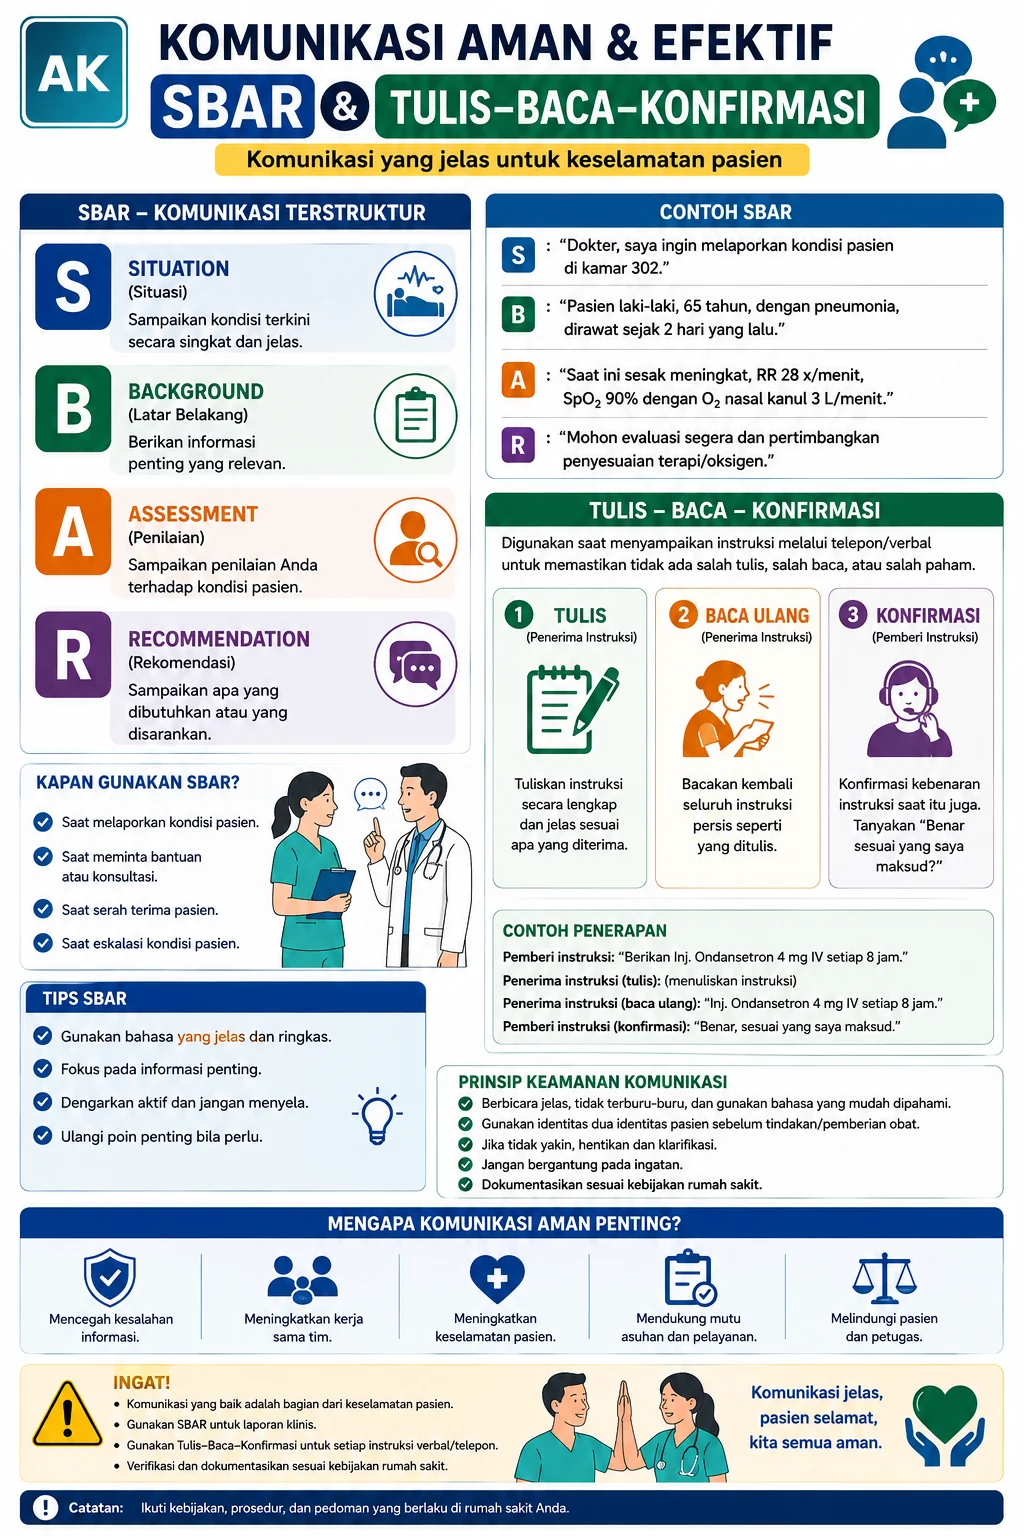
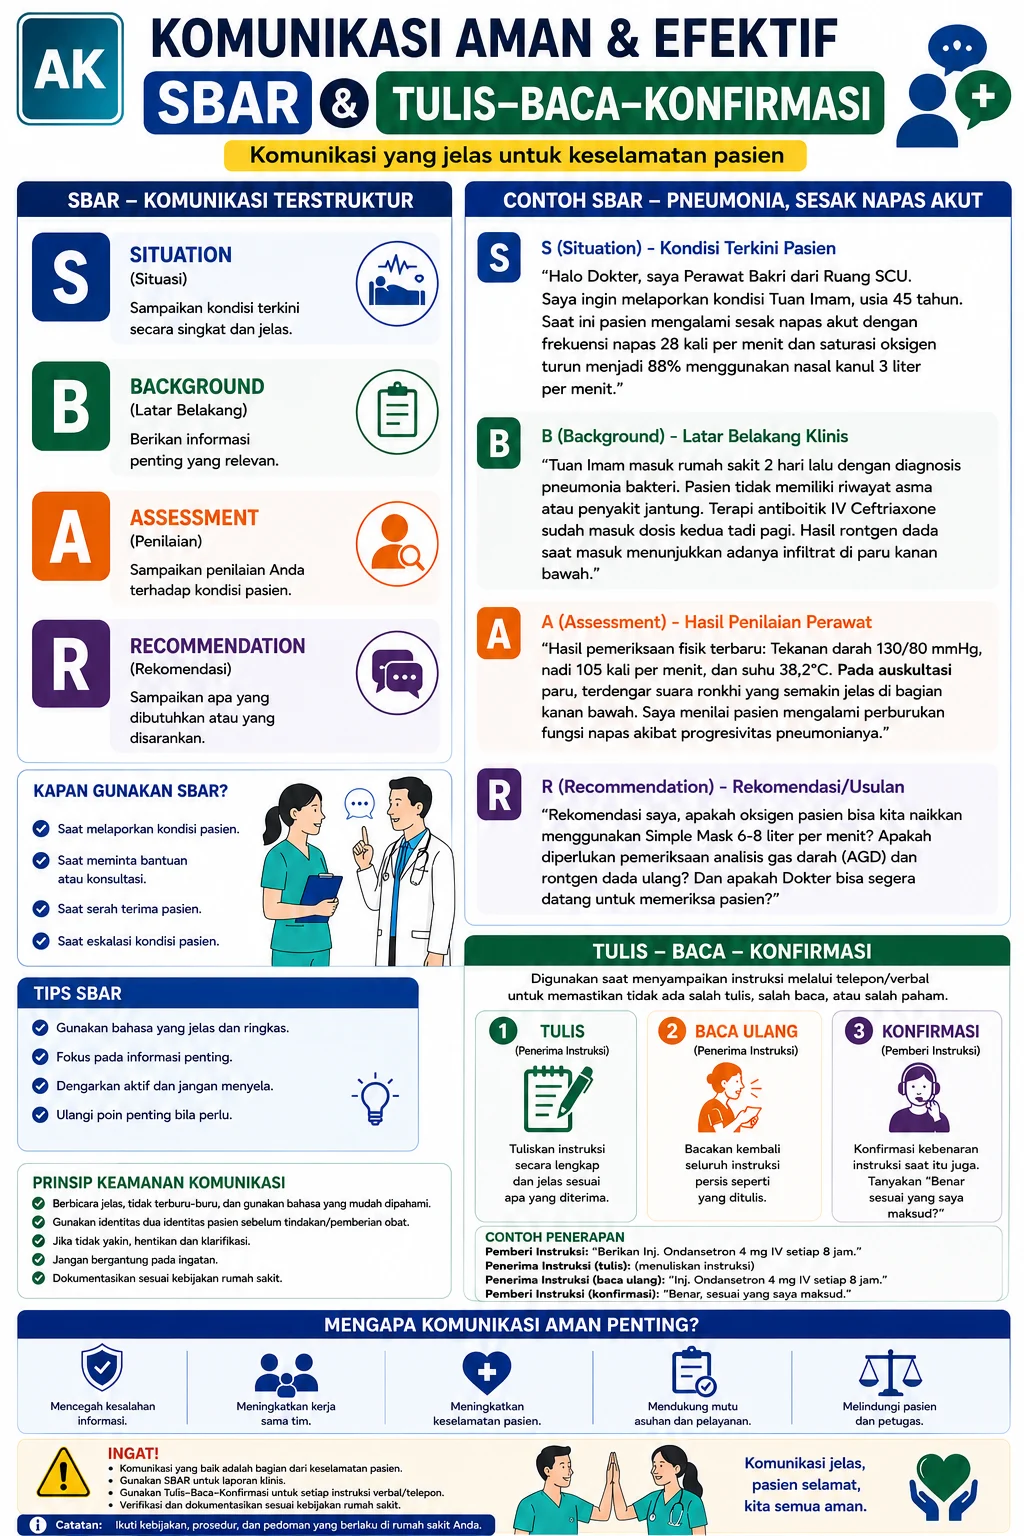
Add files via upload
update poster

diff --git a/index.html b/index.html
@@ -10,7 +10,7 @@
   <link rel="icon" href="assets/icons/icon-192.png">
   <link rel="apple-touch-icon" href="assets/icons/icon-192.png">
   <title>Portal Keperawatan</title>
-  <link rel="stylesheet" href="assets/css/styles-v6-0-0.css?v=6.0.0">
+  <link rel="stylesheet" href="assets/css/styles-v6-0-0.css?v=6.0.1">
 </head>
 <body>
 <div class="ak-shell">
@@ -55,6 +55,6 @@
 <div class="ak-search-overlay" id="searchOverlay"><div class="ak-search-modal"><div class="ak-search-box"><svg viewBox="0 0 24 24" fill="none" stroke="currentColor" stroke-width="2"><circle cx="11" cy="11" r="7"/><path d="m20 20-4-4"/></svg><input class="ak-search-input" id="searchInput" placeholder="Cari SKP, PP, PAP, BHD, EWS, PMKP…"><button class="ak-search-close" data-action="close-search">×</button></div><div class="ak-search-results" id="searchResults"></div></div></div>
 <div class="ak-lightbox" id="lightbox"><img id="lightboxImage" alt="Poster diperbesar"><div class="ak-lightbox-controls"><button data-action="zoom-lightbox" data-delta="-0.2">−</button><button data-action="zoom-lightbox" data-delta="0.2">+</button><button data-action="close-lightbox">×</button></div></div>
 <div class="ak-toast" id="toast"></div>
-<script src="assets/js/app-v6-0-0.js?v=6.0.0" defer></script>
+<script src="assets/js/app-v6-0-0.js?v=6.0.1" defer></script>
 </body>
 </html>

diff --git a/assets/js/app-v6-0-0.js b/assets/js/app-v6-0-0.js
@@ -5,7 +5,7 @@ const $=(s,r=document)=>r.querySelector(s), $$=(s,r=document)=>[...r.querySelect
 const esc=(x='')=>String(x).replace(/[&<>"']/g,m=>({'&':'&amp;','<':'&lt;','>':'&gt;','"':'&quot;',"'":'&#039;'}[m]));
 let CATALOG,GROUPS={},TOPICS={},ICONS={},ASKEP='',CACHE={},currentId=null,current=null,currentTab='learn',quizRun=null,lbZoom=1;
 const KEY='ak_portal_state_v6', def={favorites:[],recent:[],lastTopic:null,lastSlides:{}};
-const ASSET_VERSION='6.0.0';
+const ASSET_VERSION='6.0.1';
 let state=load();
 function load(){try{return {...def,...JSON.parse(localStorage.getItem(KEY)||'{}')}}catch{return {...def}}}
 function save(){try{localStorage.setItem(KEY,JSON.stringify(state))}catch{}}

diff --git a/sw.js b/sw.js
@@ -1,10 +1,10 @@
-const CACHE = 'portal-keperawatan-v6.0.0-final';
+const CACHE = 'portal-keperawatan-v6.0.2-clean';
 const CORE = [
   './',
   './index.html',
-  './assets/css/styles-v6-0-0.css?v=6.0.0',
-  './assets/js/app-v6-0-0.js?v=6.0.0',
-  './assets/data/catalog-v6-0-0.json?v=6.0.0',
+  './assets/css/styles-v6-0-0.css?v=6.0.2',
+  './assets/js/app-v6-0-0.js?v=6.0.2',
+  './assets/data/catalog-v6-0-0.json?v=6.0.2',
   './manifest.webmanifest',
   './assets/icons/icon-192.png',
   './assets/icons/icon-512.png'

diff --git a/CHANGELOG.md b/CHANGELOG.md
@@ -1,9 +1,11 @@
 # Changelog
 
-## 6.0.0 — 7 Agustus 2026
+## 6.0.1 — 7 Agustus 2026
 - Rebuild konten berdasarkan review KEEP/FROZEN seluruh kelompok standar.
 - Mengurangi 67 menjadi 40 submateri untuk menghapus duplikasi.
 - Menghapus ilustrasi tambahan v4; visual belajar menggunakan poster praktik yang relevan.
 - Mengganti poster Pemilahan Limbah dan APAR dengan revisi terbaru.
 - Memperjelas tombol Kembali desktop.
-- Memperbarui PWA cache/version ke 6.0.0.
+- Memperbarui PWA cache/version ke 6.0.1.
+
+- v6.0.2: mengganti poster SBAR & Tulis-Baca-Konfirmasi sesuai file terbaru pengguna dan memperbarui cache PWA.

diff --git a/README.md b/README.md
@@ -1,4 +1,4 @@
-# Portal Keperawatan v6.0.0 — Final Revisi
+# Portal Keperawatan v6.0.2 — Final Revisi
 
 PWA pembelajaran internal akreditasi keperawatan. Versi ini merupakan hasil review materi menyeluruh: 9 kelompok, 40 materi, fokus kompetensi perawat, anti-pengulangan, dan poster praktik terpilih.
 
